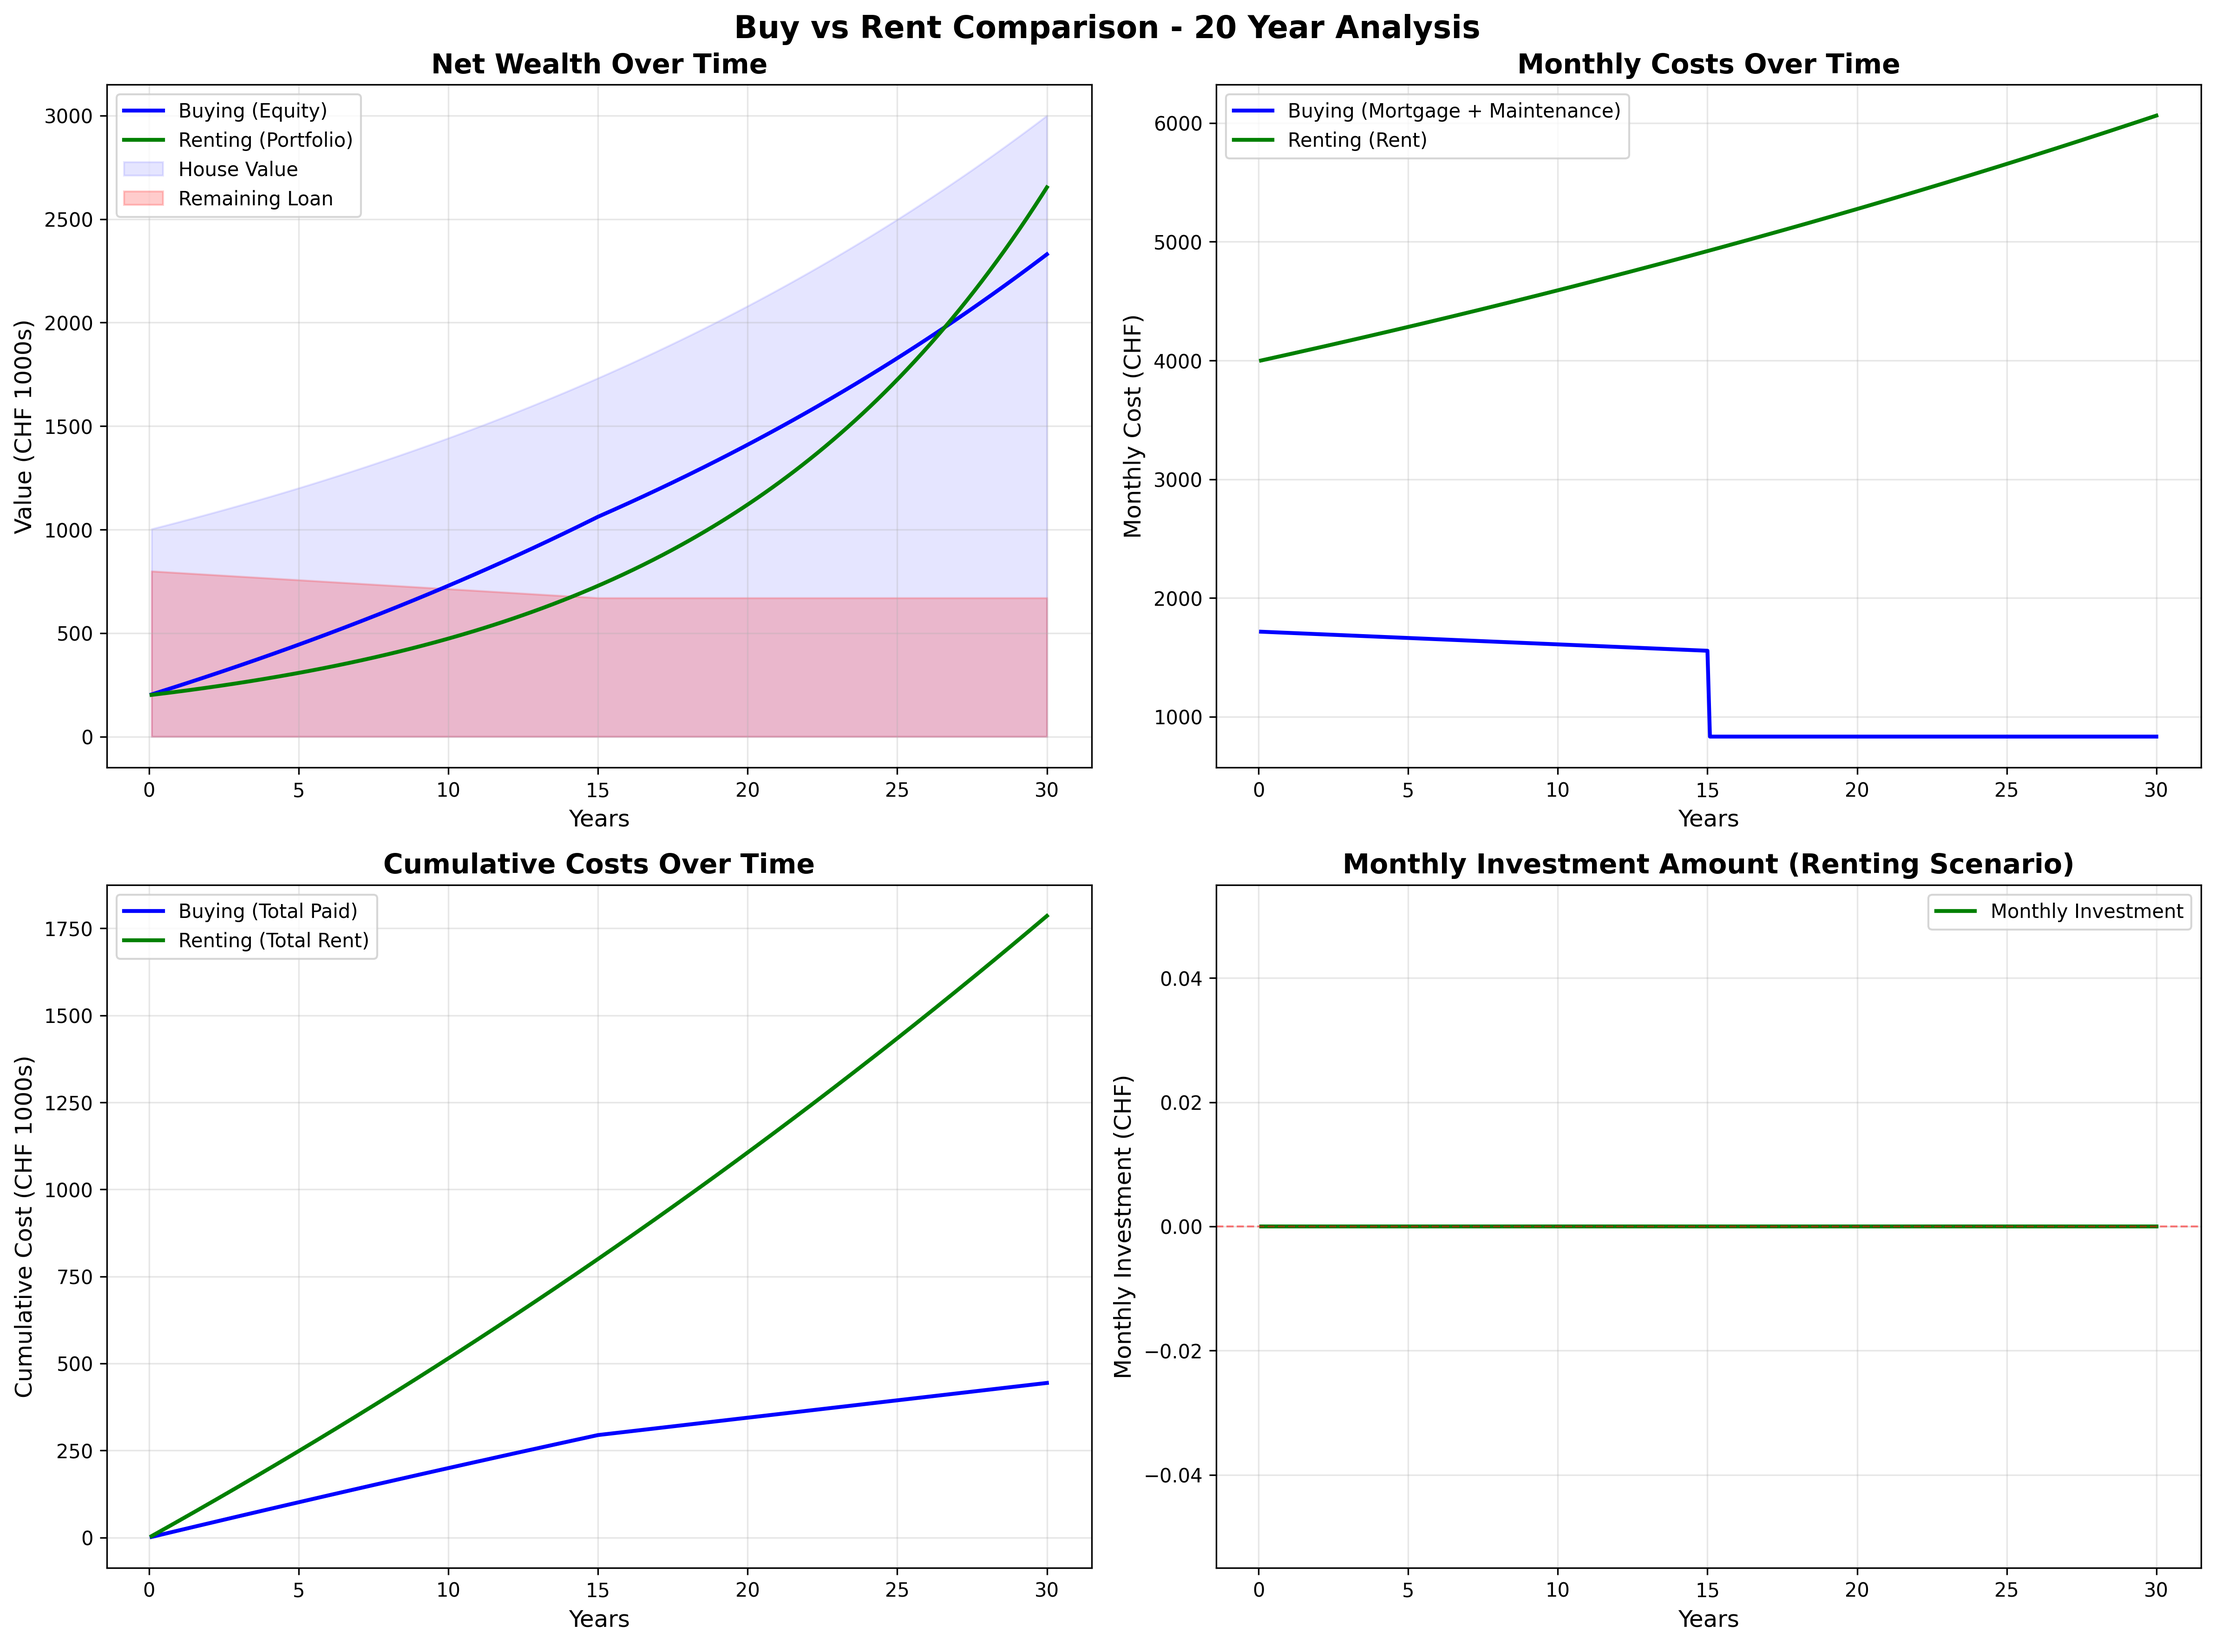
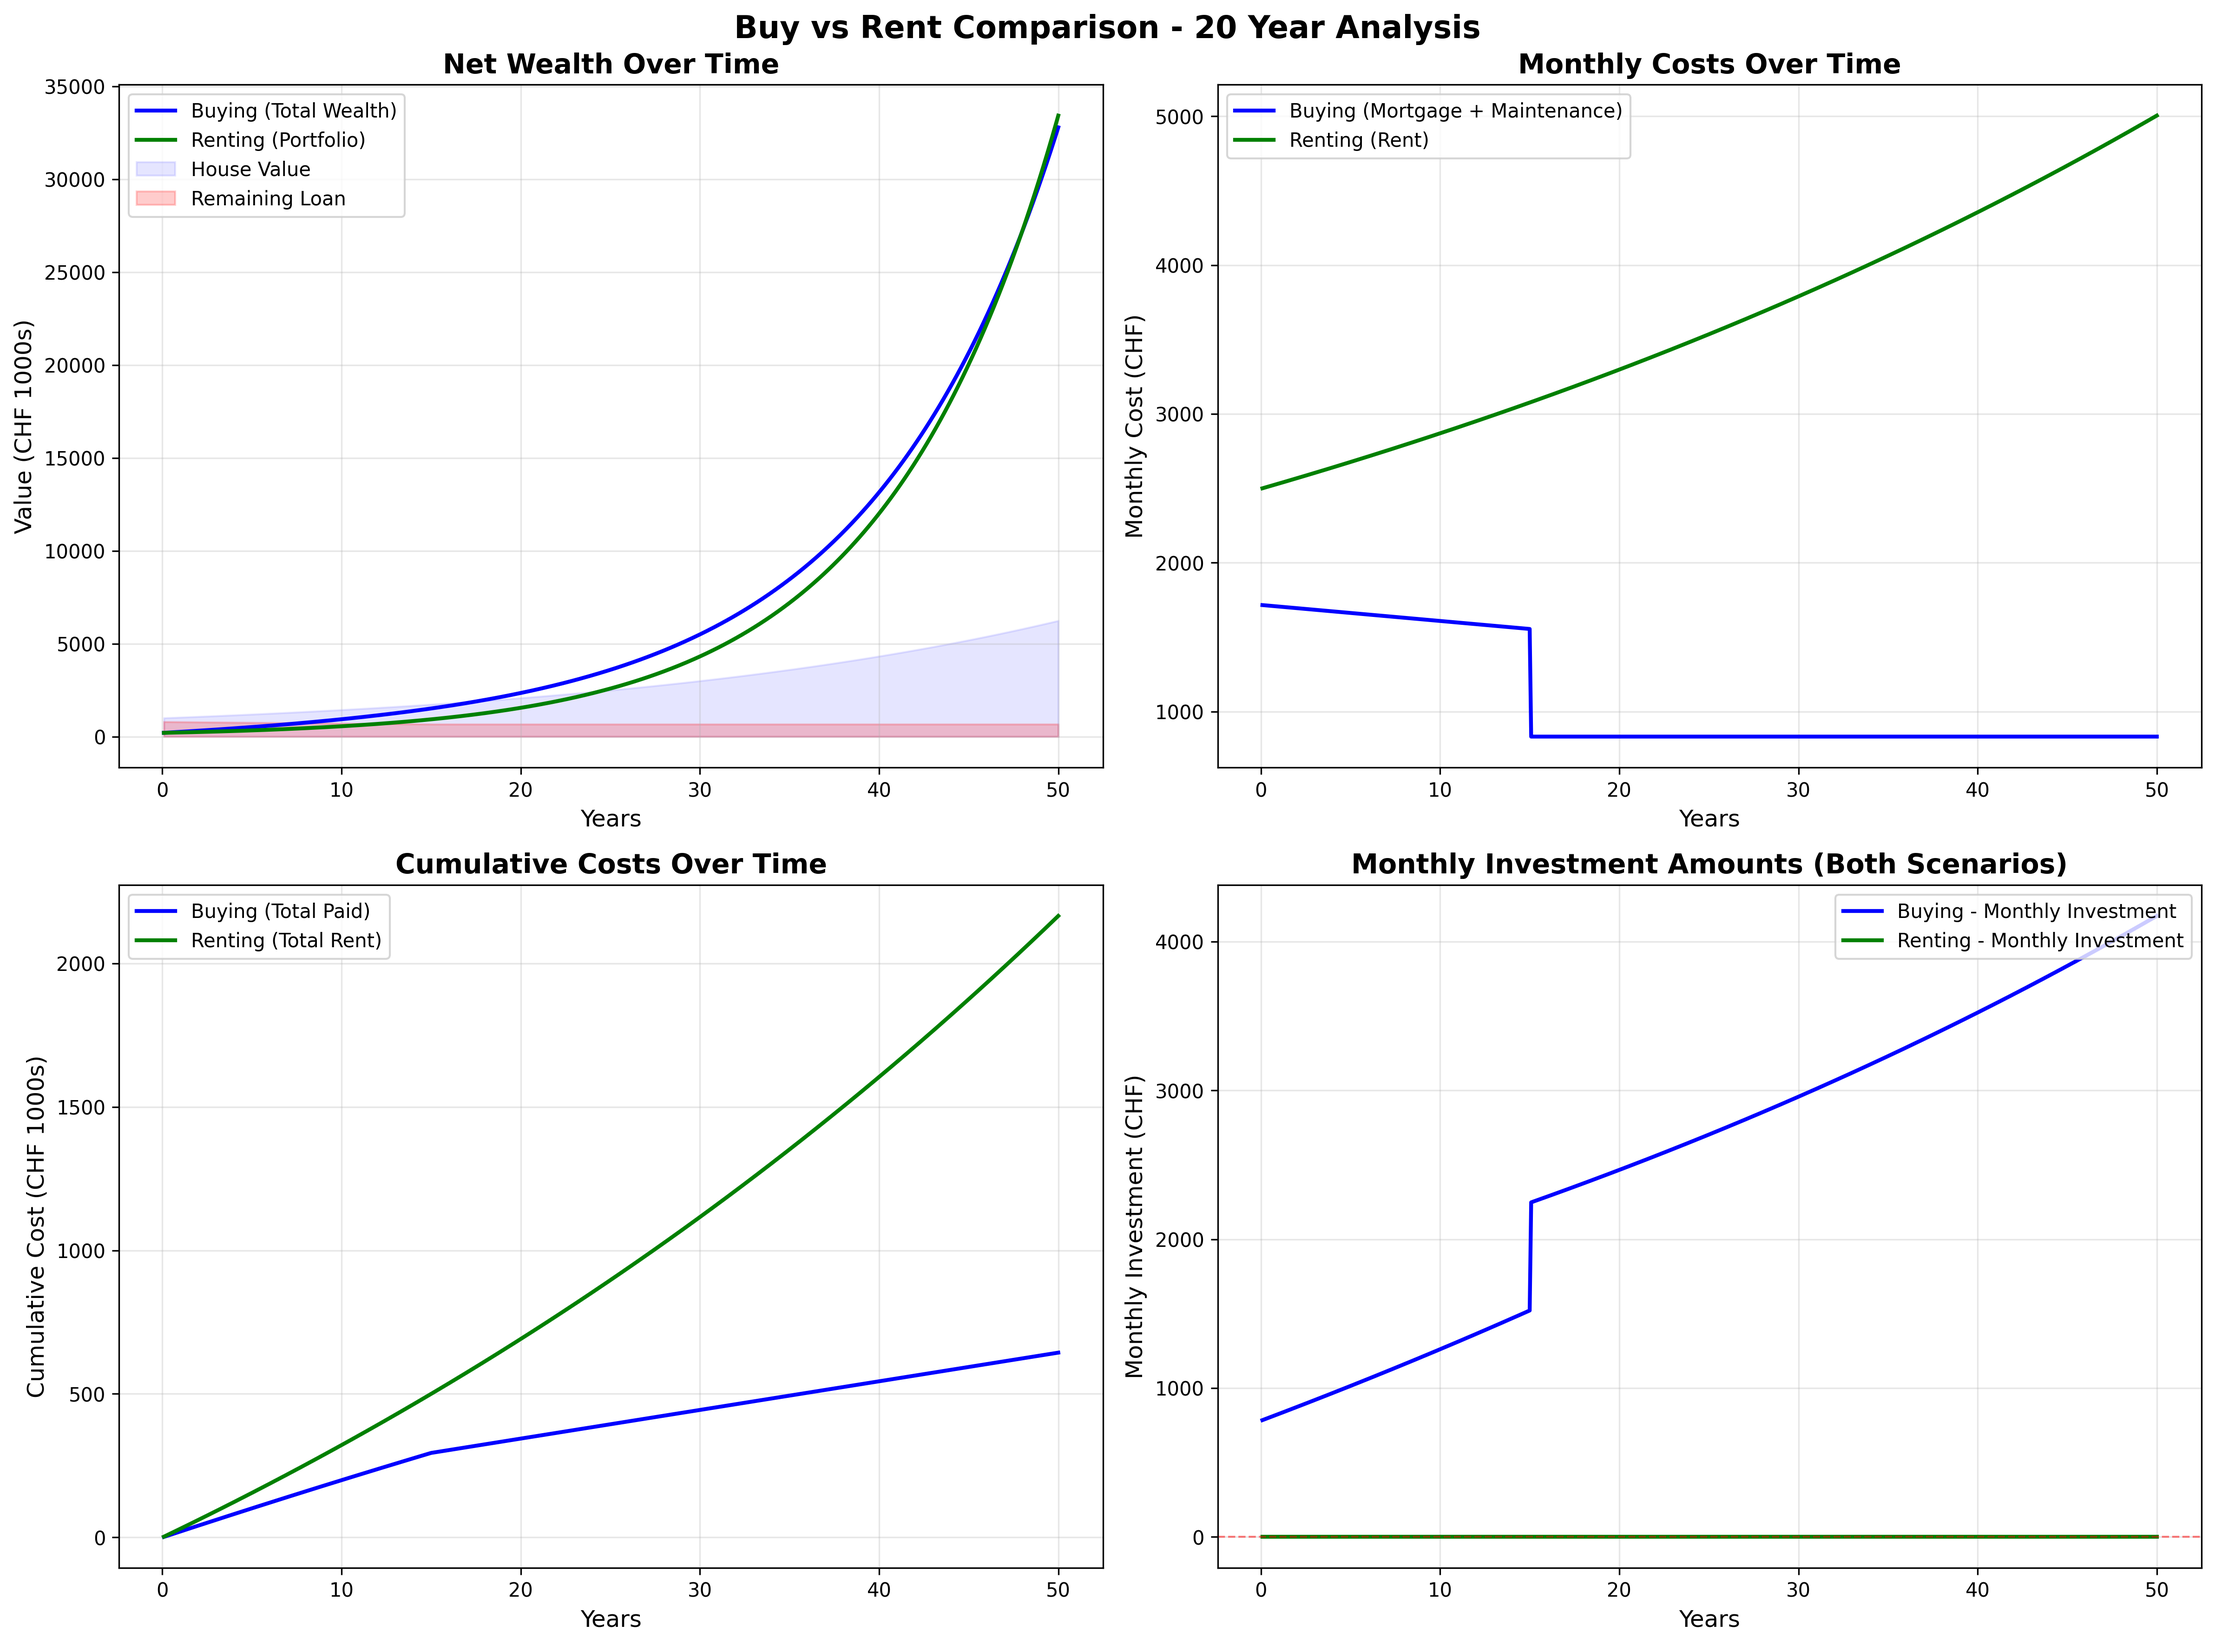
working with reinvestment for buying scenario

diff --git a/buy_vs_rent.py b/buy_vs_rent.py
@@ -104,9 +104,17 @@ class BuyVsRentCalculator:
         """
         remaining_loan = self.loan_amount
         current_house_value = self.house_price
+        buy_investment_portfolio = 0  # Track investments when buy costs < rent
         wealth_progression = []
 
+        # Track current rent for comparison
+        current_monthly_rent = self.monthly_rent
+
         for month in range(1, months + 1):
+            # Update current rent (for comparison with buy costs)
+            if month > 1:
+                current_monthly_rent *= 1 + self.rent_monthly_increase
+
             # Calculate interest payment (always based on current remaining loan)
             monthly_interest = remaining_loan * self.mortgage_interest_rate_monthly
 
@@ -129,11 +137,20 @@ class BuyVsRentCalculator:
             monthly_maintenance = self.house_maintenance_monthly
             total_monthly_cost = monthly_payment + monthly_maintenance
 
+            # Calculate investment if buy costs are below rent
+            monthly_investment = 0
+            if total_monthly_cost < current_monthly_rent:
+                monthly_investment = current_monthly_rent - total_monthly_cost
+                buy_investment_portfolio += monthly_investment
+                # Apply ETF yield to the portfolio
+                buy_investment_portfolio *= 1 + self.etf_monthly_yield
+
             # Update house value (appreciation)
             current_house_value *= 1 + self.house_price_monthly_yield
 
-            # Calculate net wealth (house equity)
+            # Calculate net wealth (house equity + investment portfolio)
             equity = current_house_value - remaining_loan
+            total_wealth = equity + buy_investment_portfolio
 
             wealth_progression.append(
                 {
@@ -142,6 +159,9 @@ class BuyVsRentCalculator:
                     "house_value": current_house_value,
                     "remaining_loan": remaining_loan,
                     "equity": equity,
+                    "monthly_investment": monthly_investment,
+                    "investment_portfolio": buy_investment_portfolio,
+                    "total_wealth": total_wealth,
                 }
             )
 
@@ -154,6 +174,10 @@ class BuyVsRentCalculator:
             "wealth_progression": wealth_progression,
             "final_house_value": wealth_progression[-1]["house_value"],
             "final_equity": wealth_progression[-1]["equity"],
+            "final_investment_portfolio": wealth_progression[-1][
+                "investment_portfolio"
+            ],
+            "final_total_wealth": wealth_progression[-1]["total_wealth"],
         }
 
     def calculate_renting_scenario(self, months=240):
@@ -236,8 +260,11 @@ class BuyVsRentCalculator:
             w["monthly_cost"] for w in renting["wealth_progression"]
         )
 
-        # Calculate total invested (for renting scenario)
-        total_invested = self.down_payment + sum(
+        # Calculate total invested (for both scenarios)
+        buying_total_invested = sum(
+            w["monthly_investment"] for w in buying["wealth_progression"]
+        )
+        renting_total_invested = self.down_payment + sum(
             max(0, w["monthly_investment"]) for w in renting["wealth_progression"]
         )
 
@@ -247,14 +274,15 @@ class BuyVsRentCalculator:
             "comparison": {
                 "buying_total_cost": buying_total_cost,
                 "renting_total_cost": renting_total_cost,
-                "buying_final_wealth": buying["final_equity"],
+                "buying_final_wealth": buying["final_total_wealth"],
                 "renting_final_wealth": renting["final_portfolio_value"],
-                "wealth_difference": buying["final_equity"]
+                "wealth_difference": buying["final_total_wealth"]
                 - renting["final_portfolio_value"],
-                "total_invested": total_invested,
+                "buying_total_invested": buying_total_invested,
+                "renting_total_invested": renting_total_invested,
                 "better_option": (
                     "Buying"
-                    if buying["final_equity"] > renting["final_portfolio_value"]
+                    if buying["final_total_wealth"] > renting["final_portfolio_value"]
                     else "Renting"
                 ),
             },
@@ -274,6 +302,10 @@ def print_results(results):
     print(f"Total Initial Monthly Cost: CHF {buying['initial_monthly_cost']:,.2f}")
     print(f"\nFinal House Value: CHF {buying['final_house_value']:,.2f}")
     print(f"Final Equity (Net Wealth): CHF {buying['final_equity']:,.2f}")
+    print(
+        f"Final Investment Portfolio: CHF {buying['final_investment_portfolio']:,.2f}"
+    )
+    print(f"Final Total Wealth: CHF {buying['final_total_wealth']:,.2f}")
 
     print("\n--- RENTING SCENARIO ---")
     renting = results["renting"]
@@ -290,7 +322,8 @@ def print_results(results):
     comp = results["comparison"]
     print(f"Total Cost - Buying: CHF {comp['buying_total_cost']:,.2f}")
     print(f"Total Cost - Renting: CHF {comp['renting_total_cost']:,.2f}")
-    print(f"Total Amount Invested (Renting): CHF {comp['total_invested']:,.2f}")
+    print(f"Total Amount Invested - Buying: CHF {comp['buying_total_invested']:,.2f}")
+    print(f"Total Amount Invested - Renting: CHF {comp['renting_total_invested']:,.2f}")
     print(f"\nFinal Wealth - Buying: CHF {comp['buying_final_wealth']:,.2f}")
     print(f"Final Wealth - Renting: CHF {comp['renting_final_wealth']:,.2f}")
     print(f"\nWealth Difference: CHF {comp['wealth_difference']:,.2f}")
@@ -358,8 +391,6 @@ def main():
         mortgage_amortization_years=mortgage_amortization_years,
         rent_annual_increase=rent_annual_increase,
     )
-
-    # Run comparison
     results = calculator.compare(months=simulation_years * 12)
 
     # Print results

diff --git a/plot_buy_vs_rent.py b/plot_buy_vs_rent.py
@@ -30,6 +30,10 @@ def plot_comparison(results, months=240):
     buying_house_value = [w["house_value"] for w in buying["wealth_progression"]]
     buying_monthly_cost = [w["monthly_cost"] for w in buying["wealth_progression"]]
     buying_remaining_loan = [w["remaining_loan"] for w in buying["wealth_progression"]]
+    buying_monthly_investment = [
+        w["monthly_investment"] for w in buying["wealth_progression"]
+    ]
+    buying_total_wealth = [w["total_wealth"] for w in buying["wealth_progression"]]
 
     # Renting scenario data
     renting_portfolio = [w["portfolio_value"] for w in renting["wealth_progression"]]
@@ -52,8 +56,8 @@ def plot_comparison(results, months=240):
     ax1 = axes[0, 0]
     ax1.plot(
         years_array,
-        np.array(buying_equity) / 1000,
-        label="Buying (Equity)",
+        np.array(buying_total_wealth) / 1000,
+        label="Buying (Total Wealth)",
         linewidth=2,
         color="blue",
     )
@@ -130,12 +134,19 @@ def plot_comparison(results, months=240):
     ax3.legend(loc="upper left")
     ax3.grid(True, alpha=0.3)
 
-    # Plot 4: Monthly Investment (Renting Scenario)
+    # Plot 4: Monthly Investment (Both Scenarios)
     ax4 = axes[1, 1]
     ax4.plot(
         years_array,
+        buying_monthly_investment,
+        label="Buying - Monthly Investment",
+        linewidth=2,
+        color="blue",
+    )
+    ax4.plot(
+        years_array,
         renting_monthly_investment,
-        label="Monthly Investment",
+        label="Renting - Monthly Investment",
         linewidth=2,
         color="green",
     )
@@ -143,7 +154,7 @@ def plot_comparison(results, months=240):
     ax4.set_xlabel("Years", fontsize=12)
     ax4.set_ylabel("Monthly Investment (CHF)", fontsize=12)
     ax4.set_title(
-        "Monthly Investment Amount (Renting Scenario)", fontsize=14, fontweight="bold"
+        "Monthly Investment Amounts (Both Scenarios)", fontsize=14, fontweight="bold"
     )
     ax4.legend(loc="upper right")
     ax4.grid(True, alpha=0.3)
